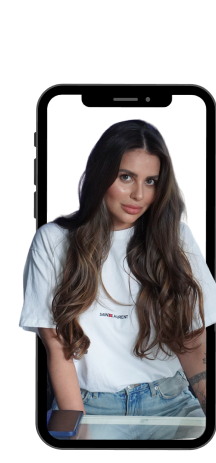
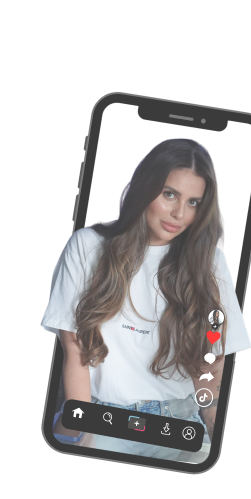
some-fix

diff --git a/styles/scss/_media.scss b/styles/scss/_media.scss
@@ -223,21 +223,20 @@
             display: block;
             position: absolute;
             right: 0;
-            bottom: 40px;
+            bottom: 20px;
             z-index: -100;
-            transform: rotate(9deg);
             #MainTTIcon{
                 position: absolute;
-                bottom: 15px;
+                bottom: 50px;
                 left: -100px;
-                transform: rotate(-20deg);
+                //transform: rotate(-20deg);
             }
             #MainTTIcon2{
                 width: 43px;
                 height: 44px;
                 position: absolute;
-                top: 120px;
-                right: 10px;
+                top: 140px;
+                right: 0;
                 transform: rotate(-6deg);
             }
         }

diff --git a/styles/css/index.css b/styles/css/index.css
@@ -1124,22 +1124,20 @@ body {
     display: block;
     position: absolute;
     right: 0;
-    bottom: 40px;
+    bottom: 20px;
     z-index: -100;
-    transform: rotate(9deg);
   }
   .main .main-img-mob #MainTTIcon {
     position: absolute;
-    bottom: 15px;
+    bottom: 50px;
     left: -100px;
-    transform: rotate(-20deg);
   }
   .main .main-img-mob #MainTTIcon2 {
     width: 43px;
     height: 44px;
     position: absolute;
-    top: 120px;
-    right: 10px;
+    top: 140px;
+    right: 0;
     transform: rotate(-6deg);
   }
 }
